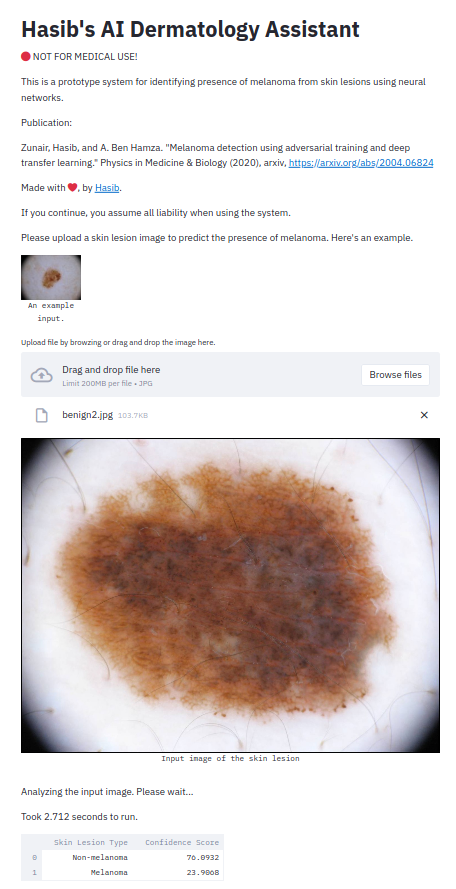
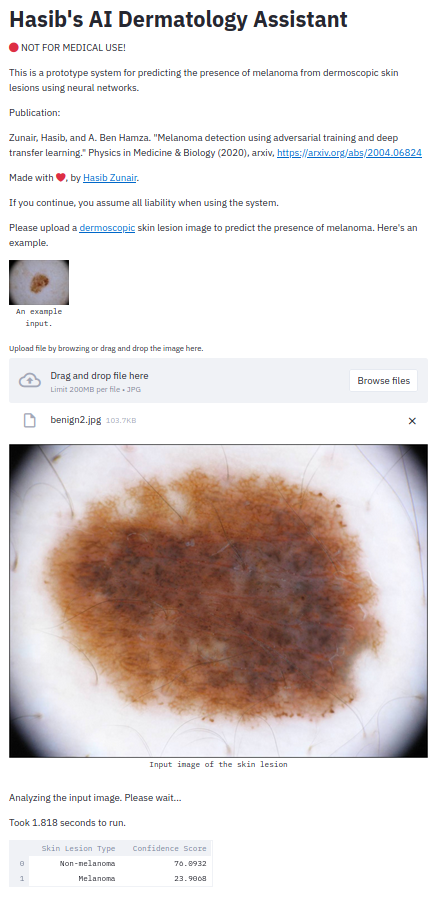
Update app info

diff --git a/app/app.py b/app/app.py
@@ -48,7 +48,7 @@ if __name__ == '__main__':
 
     :red_circle: NOT FOR MEDICAL USE!
 
-    This is a prototype system for predicting the presence of melanoma from a dermoscopic skin lesions using neural networks.
+    This is a prototype system for predicting the presence of melanoma from dermoscopic skin lesions using neural networks.
 
     Publication: \n
     Zunair, Hasib, and A. Ben Hamza. 
